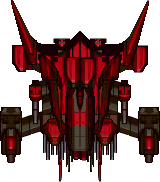
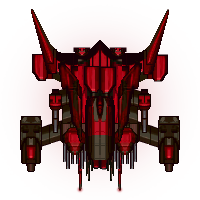
Dodnano nowego przeciwnika
Dodano szybkiego przeciwnika

diff --git a/SFML2/BasicEnemy.cpp b/SFML2/BasicEnemy.cpp
@@ -2,7 +2,7 @@
 #include "PowerUp.h"
 
 std::vector < std::shared_ptr <BasicEnemy> > BasicEnemy::enemy;
-bool BasicEnemy::renderHitbox = true;
+bool BasicEnemy::renderHitbox = false;
 sf::SoundBuffer BasicEnemy::enemyHitSoundBuffer;
 
 BasicEnemy::BasicEnemy(int id)

diff --git a/SFML2/EnemyFast.h b/SFML2/EnemyFast.h
@@ -1,0 +1,10 @@
+#pragma once
+
+#include "BasicEnemy.h"
+
+class EnemyFast : public BasicEnemy
+{
+public:
+	EnemyFast(float posX, float posY, int level, int id);
+	static void create(float posX, float posY, int level, int id = -1);
+};

diff --git a/SFML2/LevelManager.cpp b/SFML2/LevelManager.cpp
@@ -78,7 +78,7 @@ void LevelManager::level1()
 {
 	for (int i = 0; i < 3; i++)
 	{
-		EnemyEasy::create(i * 300 + 500, 100, 1);
+		EnemyEasyt::create(i * 300 + 500, 100, 1);
 	}
 }
 

diff --git a/SFML2/Player.cpp b/SFML2/Player.cpp
@@ -75,7 +75,7 @@ void Player::update()
 
 void Player::resetStats()
 {
-	shootSpeed = 1;
+	shootSpeed = 4;
 	shootDuration = 300;
 	speed = 0.5;
 	hp = 6;

diff --git a/SFML2/LevelManager.h b/SFML2/LevelManager.h
@@ -7,6 +7,7 @@
 #include "EnemyMedium.h"
 #include "BossBrown.h"
 #include "EnemyTank.h"
+#include "EnemyFast.h"
 
 class LevelManager {
 public:
